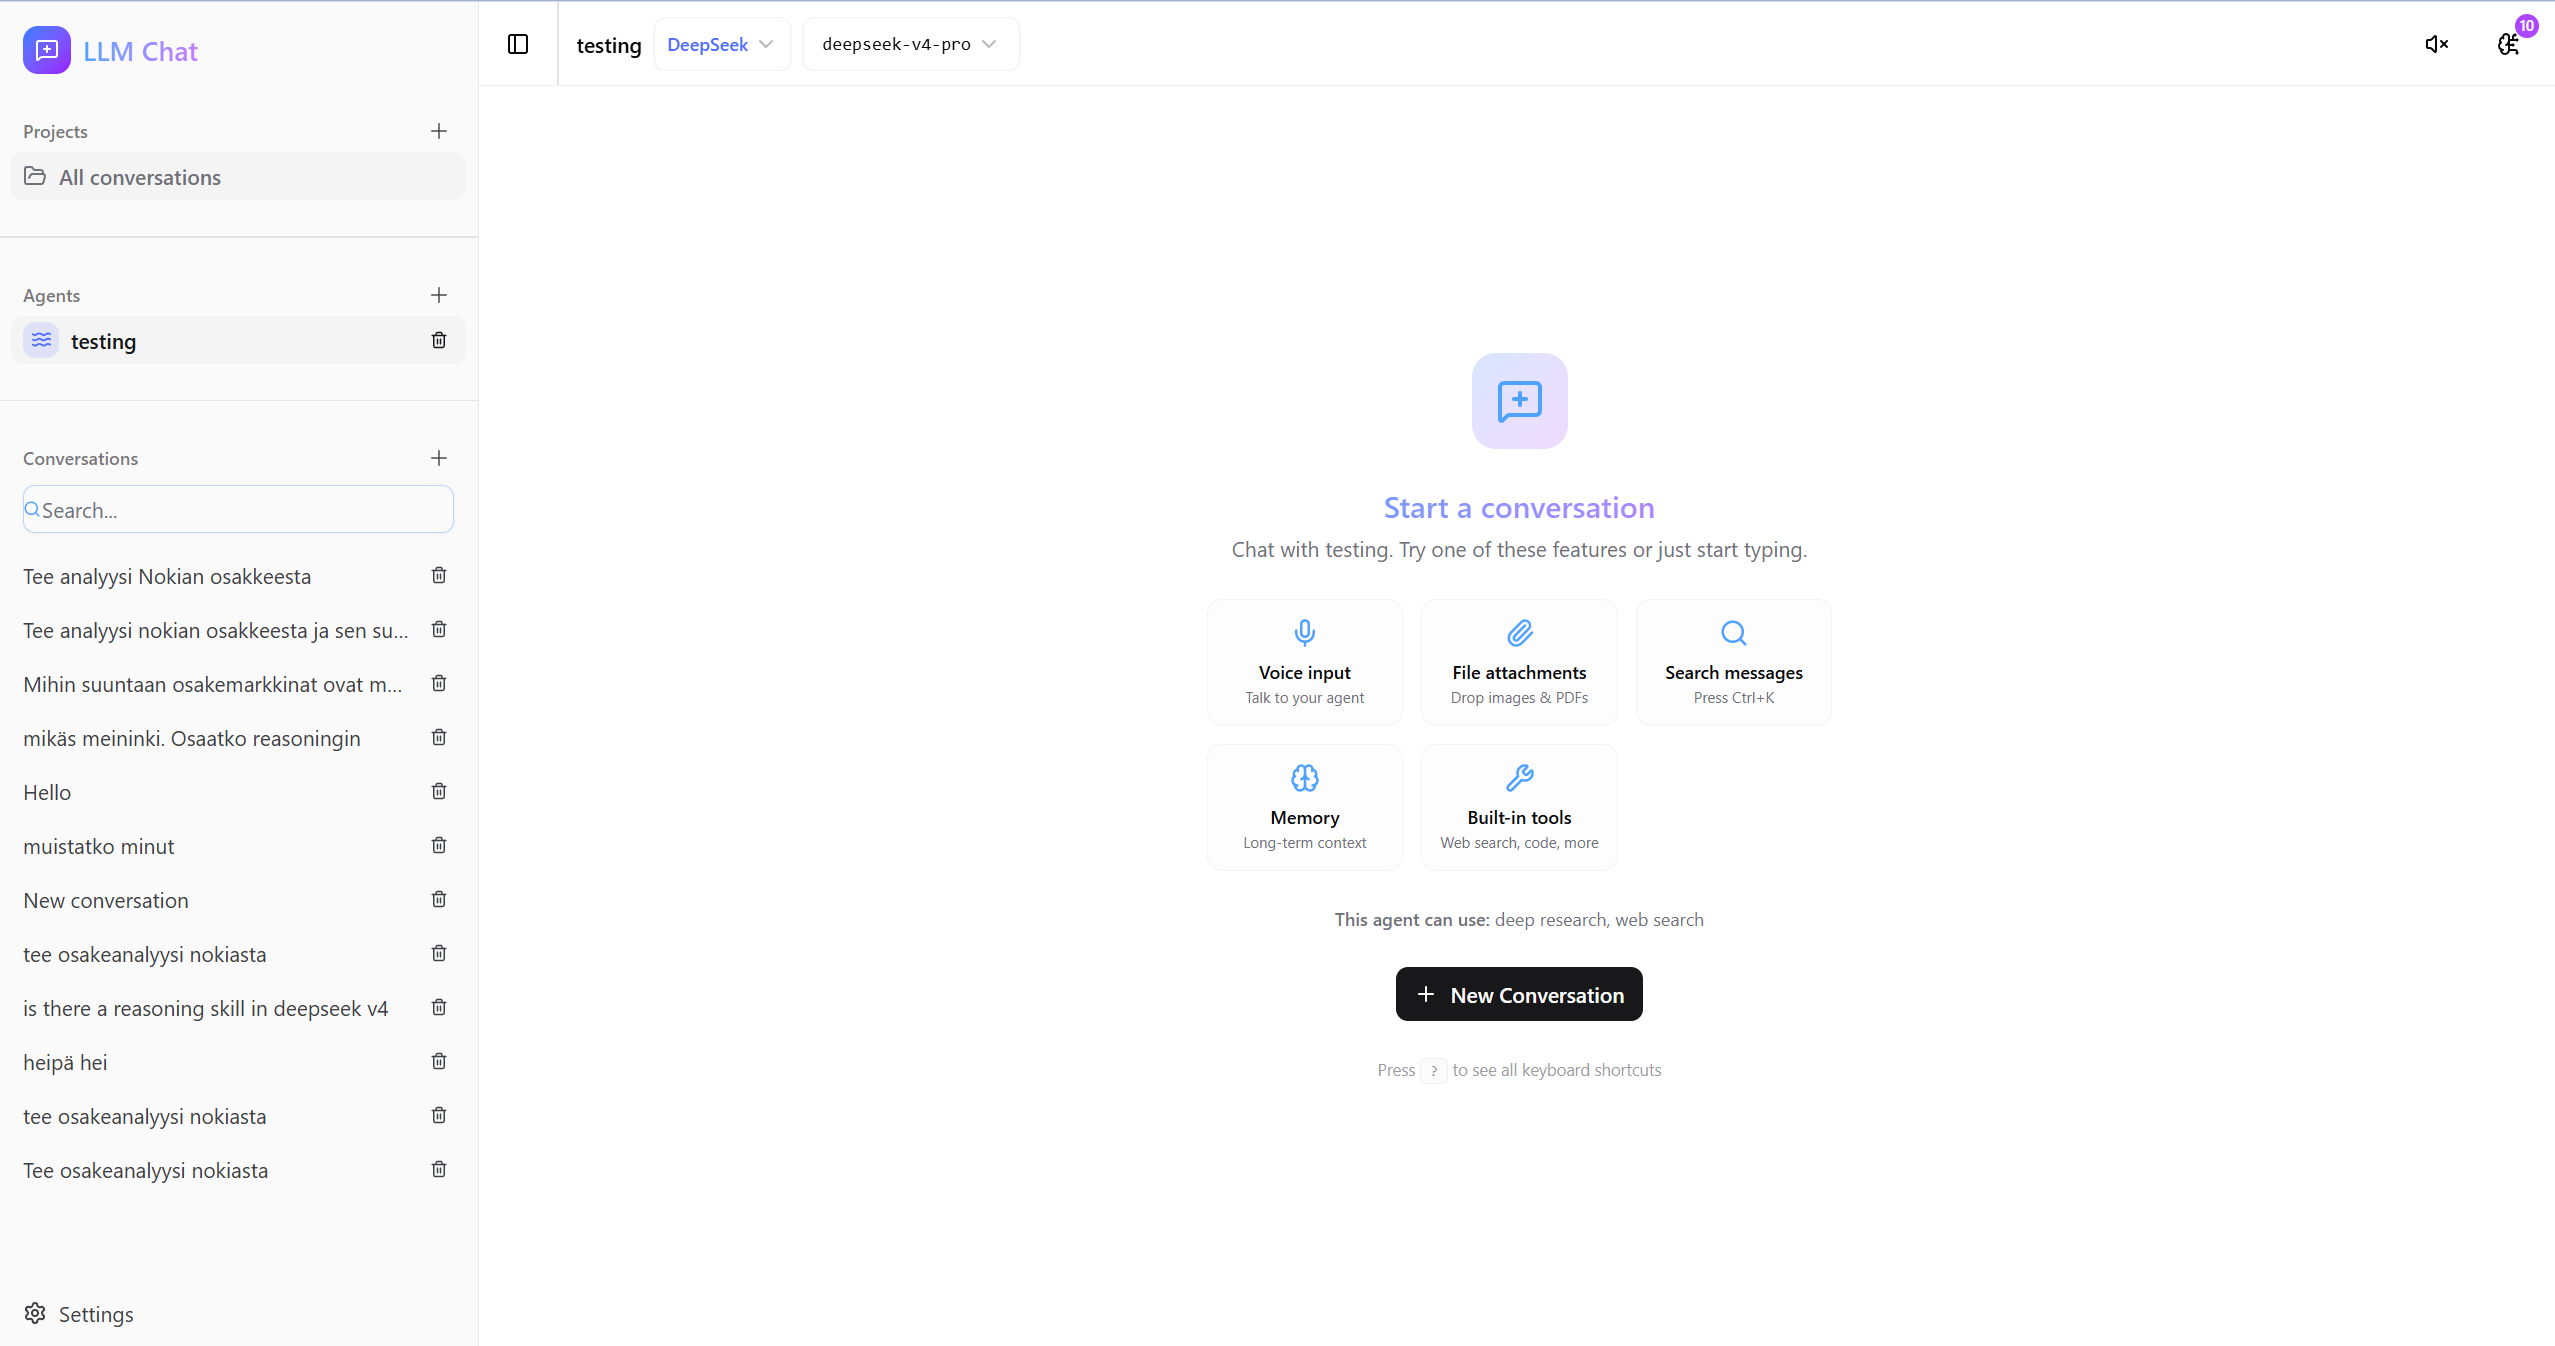
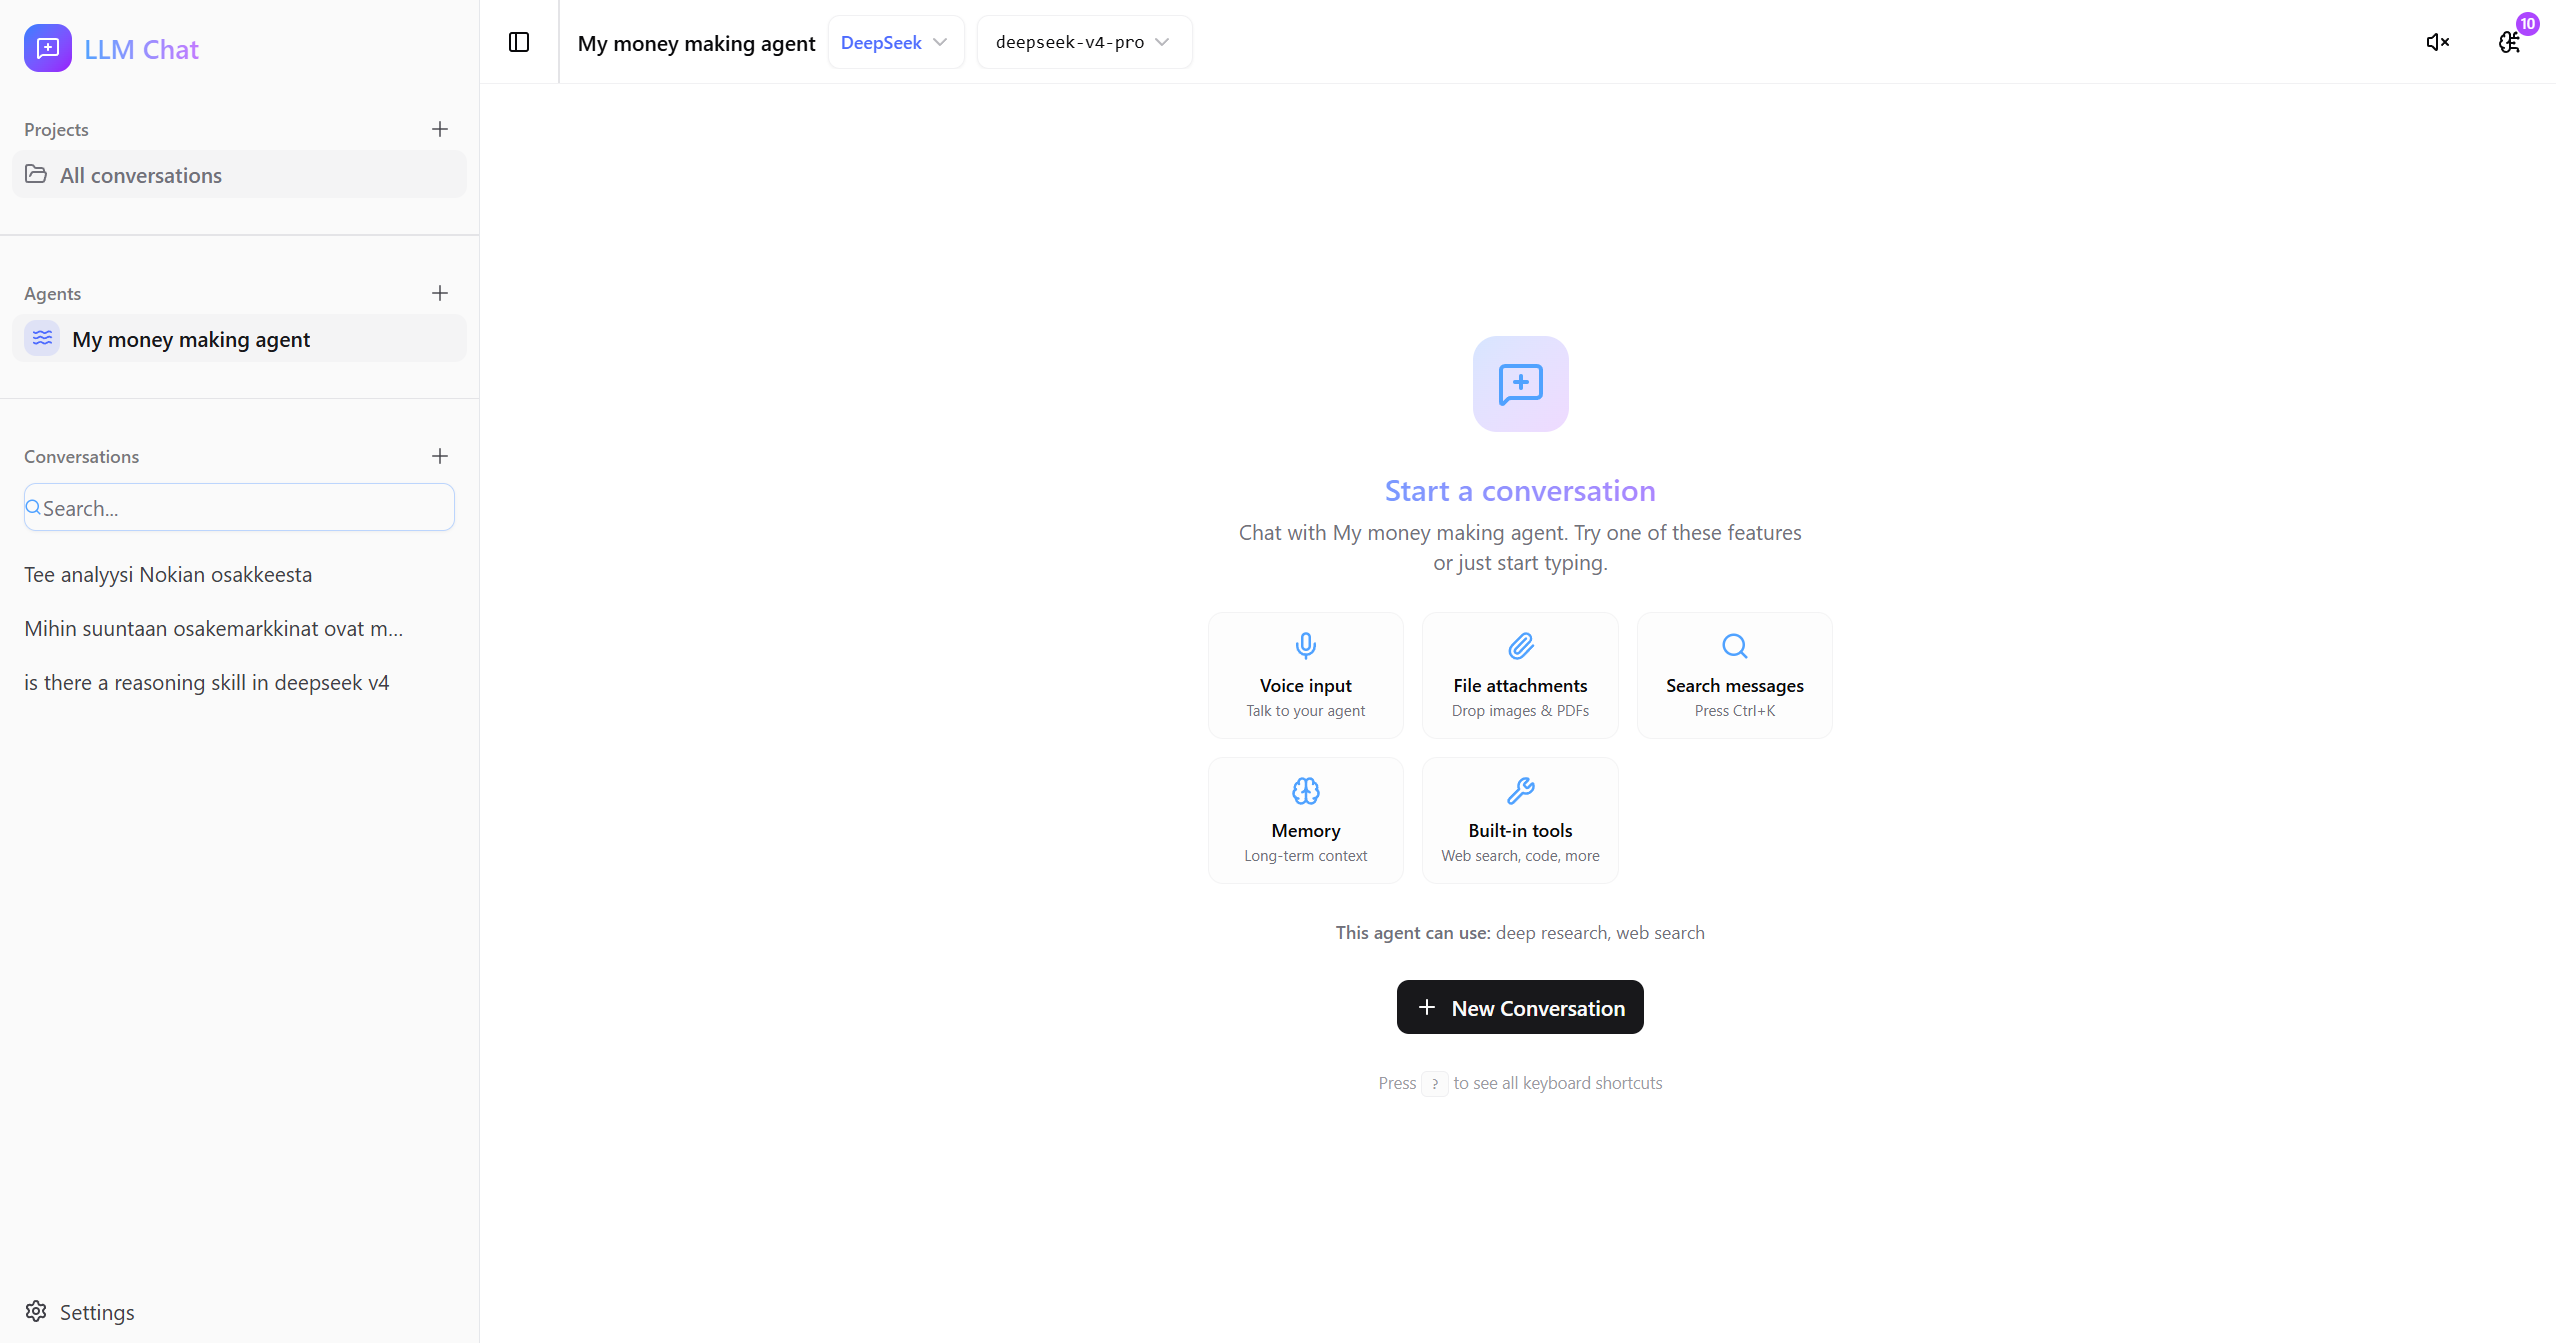
docs: fix image syntax in README.md and update main interface image

diff --git a/README.md b/README.md
@@ -2,8 +2,8 @@
 
 A powerful multi-provider AI chat desktop application with advanced features like deep research, MCP tool integration, semantic memory, and custom agent workflows. Built with React, Express, and Electron.
 
-![Main Interface](![Main chat interface with streaming responses and tool integration](image-3.png))
-
+![Main Interface](image-3.png)
+*Main chat interface with streaming responses and tool integration*
 
 ## Table of Contents
 
